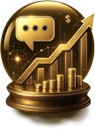
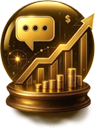
UX: navegação por URL, voltar-ao-topo, troféu centrado, confete no #1
- Routing por hash (URL = fonte de verdade): back/forward do browser navegam na app;
  links partilháveis e legíveis por SLUG do nome (#p/tiago-almeida, #duel/a~b);
  aceita ainda links antigos por id; #admin pelo mesmo parser.
- Faixa lateral esquerda (desktop) para voltar ao ranking; botão antigo só fora do
  desktop e encurtado para "← Ranking" em mobile/tablet.
- Botão "voltar ao topo" (desktop), ancorado junto da coluna de conteúdo (tabela), não
  no canto da janela; aparece com scroll.
- Troféu do 1º lugar centrado no topo do cartão (mock) + imagem cdi-trophy.png atualizada.
- Confete dourado no detalhe do #1 (Web Animations API), mais intenso quando o #1 é o
  próprio; mobile/tablet/desktop; respeita prefers-reduced-motion.

diff --git a/app/page.js b/app/page.js
@@ -1,6 +1,6 @@
 "use client";
 
-import { useState, useEffect, useMemo, useCallback, useId } from "react";
+import { useState, useEffect, useMemo, useCallback, useId, useRef } from "react";
 import { supabase } from "./supabase";
 import { fetchStockInfo, fetchStockPrices, fetchStockHistory, searchTickers } from "./lib/stocks";
 import { LineChart, Line, XAxis, YAxis, CartesianGrid, Tooltip, ReferenceLine, ResponsiveContainer } from "recharts";
@@ -249,6 +249,129 @@ function TiltCard({children,style}){
     </div>
   );
 }
+
+// Estado da faixa de voltar: ativa só em desktop (hover/ponteiro fino) e com margem
+// esquerda suficiente. Quando ativa, SUBSTITUI o botão "← Voltar ao ranking".
+function useBackRail(){
+  const [enabled,setEnabled]=useState(false);
+  const [gap,setGap]=useState(0);
+  useEffect(()=>{
+    let ok=false;
+    try{ ok=window.matchMedia("(hover:hover) and (pointer:fine)").matches; }catch{}
+    setEnabled(ok);
+    if(!ok) return;
+    const calc=()=>{ const w=window.innerWidth; setGap(w>1320?(w-1320)/2+20:20); };
+    calc();
+    window.addEventListener("resize",calc);
+    return ()=>window.removeEventListener("resize",calc);
+  },[]);
+  return {active:enabled&&gap>=64,gap};
+}
+
+// Faixa lateral esquerda (desktop): ao passar o cursor pela margem vazia à esquerda do
+// conteúdo, surge um glow + seta ← para voltar. Ocupa exatamente a margem (nunca sobrepõe
+// o cartão). Renderizada só quando useBackRail().active (aí o botão de topo desaparece).
+function LeftBackRail({gap,onBack,label="Voltar ao ranking"}){
+  const [hover,setHover]=useState(false);
+  return(
+    <div onClick={onBack} onMouseEnter={()=>setHover(true)} onMouseLeave={()=>setHover(false)}
+      role="button" aria-label={label} title={label}
+      style={{position:"fixed",left:0,top:0,bottom:0,width:gap,cursor:"pointer",zIndex:40,
+        display:"flex",alignItems:"center",justifyContent:"center",
+        background:hover?"linear-gradient(90deg, rgba(255,255,255,0.14) 0%, rgba(255,255,255,0.04) 50%, transparent 100%)":"transparent",
+        transition:"background .25s ease"}}>
+      <div style={{display:"flex",flexDirection:"column",alignItems:"center",gap:10,padding:8,
+        opacity:hover?1:0,transform:hover?"translateX(0)":"translateX(12px)",transition:"opacity .25s ease, transform .25s ease"}}>
+        <svg width="44" height="44" viewBox="0 0 24 24" fill="none" stroke="#e2e8f0" strokeWidth="2.2"
+          strokeLinecap="round" strokeLinejoin="round" style={{filter:"drop-shadow(0 0 10px rgba(255,255,255,0.55))"}}>
+          <path d="M15 6l-6 6 6 6"/>
+        </svg>
+        {gap>=150&&<span style={{fontSize:12,color:"#cbd5e1",fontWeight:600,whiteSpace:"nowrap",letterSpacing:"0.3px",filter:"drop-shadow(0 1px 4px rgba(0,0,0,0.5))"}}>{label}</span>}
+      </div>
+    </div>
+  );
+}
+
+// Botão flutuante "voltar ao topo" — só em desktop (hover/ponteiro fino); aparece com scroll.
+// Ancorado junto da coluna de conteúdo (maxWidth): fica ao lado da tabela, não no bordo da janela.
+function BackToTop({maxWidth}){
+  const [show,setShow]=useState(false);
+  const [enabled,setEnabled]=useState(false);
+  useEffect(()=>{
+    let ok=false; try{ ok=window.matchMedia("(hover:hover) and (pointer:fine)").matches; }catch{}
+    setEnabled(ok);
+    if(!ok) return;
+    const onScroll=()=>setShow(window.scrollY>600);
+    onScroll();
+    window.addEventListener("scroll",onScroll,{passive:true});
+    return()=>window.removeEventListener("scroll",onScroll);
+  },[]);
+  if(!enabled) return null;
+  const right=maxWidth?`max(16px, calc((100vw - ${maxWidth}px)/2 - 38px))`:"24px";
+  return(
+    <button onClick={()=>window.scrollTo({top:0,behavior:"smooth"})} aria-label="Voltar ao topo" title="Voltar ao topo"
+      style={{position:"fixed",right,bottom:24,zIndex:45,width:46,height:46,borderRadius:"50%",cursor:"pointer",
+        background:"rgba(255,255,255,0.08)",backdropFilter:"blur(12px)",WebkitBackdropFilter:"blur(12px)",
+        border:"1px solid rgba(255,255,255,0.18)",boxShadow:"0 8px 24px rgba(0,0,0,0.35)",color:"#e2e8f0",
+        display:"flex",alignItems:"center",justifyContent:"center",
+        opacity:show?1:0,transform:show?"translateY(0)":"translateY(12px)",pointerEvents:show?"auto":"none",
+        transition:"opacity .25s ease, transform .25s ease"}}>
+      <svg width="20" height="20" viewBox="0 0 24 24" fill="none" stroke="currentColor" strokeWidth="2.2" strokeLinecap="round" strokeLinejoin="round"><path d="M12 19V5M5 12l7-7 7 7"/></svg>
+    </button>
+  );
+}
+
+// Confete dourado (sem biblioteca) — celebração do 1º lugar. Dispara 1× ao abrir o detalhe
+// do campeão; mais intenso quando o #1 é o próprio. Mobile/tablet/desktop; respeita
+// prefers-reduced-motion (quem reduz movimento não vê animação). pointer-events:none.
+function Confetti({intense}){
+  const ref=useRef(null);
+  const [pieces,setPieces]=useState(null);
+  // 1) Gera as partículas (uma vez), respeitando prefers-reduced-motion.
+  useEffect(()=>{
+    let reduce=false;
+    try{ reduce=window.matchMedia("(prefers-reduced-motion: reduce)").matches; }catch{}
+    if(reduce) return;
+    const GOLD=["#facc15","#fcd34d","#f59e0b","#fde68a","#eab308","#fbbf24","#ca8a04"];
+    const n=intense?84:46;
+    setPieces(Array.from({length:n},(_,i)=>({
+      left:Math.random()*100,
+      dur:2000+Math.random()*1600,
+      delay:Math.random()*(intense?900:600),
+      drift:(Math.random()*2-1)*130,
+      rot:(Math.random()*2-1)*900,
+      size:6+Math.random()*7,
+      round:Math.random()<0.35,
+      color:GOLD[i%GOLD.length],
+    })));
+  },[intense]);
+  // 2) Anima cada partícula com a Web Animations API (não depende de keyframes CSS).
+  useEffect(()=>{
+    if(!pieces||!ref.current||typeof window==="undefined") return;
+    const H=window.innerHeight||800;
+    const anims=[];
+    [...ref.current.children].forEach((el,i)=>{
+      const p=pieces[i]; if(!p||!el.animate) return;
+      anims.push(el.animate([
+        {transform:`translate3d(0,${-0.15*H}px,0) rotate(0deg)`,opacity:0},
+        {opacity:1,offset:0.06},
+        {opacity:1,offset:0.88},
+        {transform:`translate3d(${p.drift}px,${1.16*H}px,0) rotate(${p.rot}deg)`,opacity:0},
+      ],{duration:p.dur,delay:p.delay,easing:"cubic-bezier(.2,.6,.5,1)",fill:"forwards"}));
+    });
+    const maxEnd=pieces.reduce((m,p)=>Math.max(m,p.dur+p.delay),0);
+    const t=setTimeout(()=>setPieces(null),maxEnd+150);
+    return()=>{ clearTimeout(t); anims.forEach(a=>{ try{a.cancel();}catch{} }); };
+  },[pieces]);
+  if(!pieces) return null;
+  return(
+    <div ref={ref} aria-hidden="true" style={{position:"fixed",inset:0,zIndex:60,pointerEvents:"none",overflow:"hidden"}}>
+      {pieces.map((p,i)=><span key={i} style={{position:"absolute",top:0,left:`${p.left}%`,
+        width:p.round?p.size*0.85:p.size,height:p.round?p.size*0.85:p.size*1.6,background:p.color,
+        borderRadius:p.round?"50%":"1px",boxShadow:"0 0 4px rgba(245,158,11,0.45)",opacity:0}}/>)}
+    </div>
+  );
+}
 // Só marca as posições SHORT — long é o normal, não precisa de badge.
 // Círculo com seta diagonal para baixo (aposta na queda), junto ao ticker.
 function SideBadge({side}){
@@ -355,6 +478,34 @@ const K={MYNAME:"ci_myname",MYPIN:"ci_mypin"};
 /* ============================================================================
    ROOT
    ============================================================================ */
+/* ---- Routing por hash: URL = fonte de verdade (back/forward + links partilháveis) ----
+   Os links usam o SLUG do nome (ex.: #p/tiago-almeida), resolvido AO VIVO a partir da lista
+   de membros — vale para os atuais e os futuros. Aceita ainda links antigos por id (UUID).
+   O duelo separa os dois slugs por "~". */
+const keyToId=(k)=>k?String(k).replace(/^pf_/,""):"";
+const slugify=(s)=>norm(s).replace(/[^a-z0-9]+/g,"-").replace(/^-+|-+$/g,"");
+function findBySlug(list,slug){ return slug?(list||[]).find(p=>slugify(p.name)===slug||keyToId(p.key)===slug)||null:null; }
+function routeToHash(r){
+  if(r.page==="detail"&&r.detailSlug) return `#p/${r.detailSlug}`;
+  if(r.page==="duel"&&r.duelSlugs?.[0]&&r.duelSlugs?.[1]) return `#duel/${r.duelSlugs[0]}~${r.duelSlugs[1]}`;
+  if(r.page==="ranking") return "#ranking";
+  if(r.page==="create")  return "#criar";
+  if(r.page==="confirm") return "#confirmar";
+  if(r.page==="admin")   return "#admin";
+  return "#"; // home
+}
+function parseHash(){
+  const h=(typeof window!=="undefined"?window.location.hash:"").replace(/^#/,"");
+  if(!h) return {page:"home"};
+  if(h==="ranking")  return {page:"ranking"};
+  if(h==="criar")    return {page:"create"};
+  if(h==="confirmar")return {page:"confirm"};
+  if(h==="admin")    return {page:"admin"};
+  const mp=h.match(/^p\/(.+)$/);          if(mp) return {page:"detail",detailSlug:decodeURIComponent(mp[1])};
+  const md=h.match(/^duel\/(.+)~(.+)$/);  if(md) return {page:"duel",duelSlugs:[decodeURIComponent(md[1]),decodeURIComponent(md[2])]};
+  return {page:"home"};
+}
+
 export default function App(){
   const [page,setPage]=useState("home"); // home|create|confirm|ranking|detail|admin
   const [loading,setLoading]=useState(true);
@@ -366,11 +517,31 @@ export default function App(){
   const [livePrices,setLivePrices]=useState({});
   const [dayChange,setDayChange]=useState({}); // variação do dia por ticker
   const [pricesLoading,setPricesLoading]=useState(false);
-  const [detailKey,setDetailKey]=useState(null);
-  const [duelKeys,setDuelKeys]=useState(null); // [keyA, keyB] para o duelo 1v1
+  const [detailSlug,setDetailSlug]=useState(null);
+  const [duelSlugs,setDuelSlugs]=useState(null); // [slugA, slugB] para o duelo 1v1
   const [toast,setToast]=useState(null);
 
   const showToast=useCallback((msg,kind="ok")=>{ setToast({msg,kind}); setTimeout(()=>setToast(null),3500); },[]);
+
+  // Routing: aplica o hash ao estado; navegar empurra o hash (back/forward funciona).
+  const applyRoute=useCallback(()=>{
+    const r=parseHash();
+    setPage(r.page);
+    setDetailSlug(r.detailSlug??null);
+    setDuelSlugs(r.duelSlugs??null);
+  },[]);
+  const goRoute=useCallback((r)=>{
+    if(typeof window!=="undefined"){
+      const hash=routeToHash(r);
+      const url=(hash&&hash!=="#")?hash:(window.location.pathname+window.location.search);
+      window.history.pushState(null,"",url);
+    }
+    applyRoute();
+  },[applyRoute]);
+  const slugForKey=useCallback((key)=>{ const pf=portfolios.find(p=>p.key===key); return pf?(slugify(pf.name)||keyToId(key)):keyToId(key); },[portfolios]);
+  const nav=useCallback((p)=>goRoute({page:p}),[goRoute]);
+  const openDetail=useCallback((k)=>goRoute({page:"detail",detailSlug:slugForKey(k)}),[goRoute,slugForKey]);
+  const openDuel=useCallback((a,b)=>goRoute({page:"duel",duelSlugs:[slugForKey(a),slugForKey(b)]}),[goRoute,slugForKey]);
 
   const refreshLivePrices=useCallback(async(pfs)=>{
     // Inclui "SPY" para o benchmark (preço ao vivo do S&P 500 agora).
@@ -469,22 +640,23 @@ export default function App(){
 
   useEffect(()=>{ load(); },[load]);
   // Ao mudar de ecrã (ou de portefólio aberto), começa no topo do scroll.
-  useEffect(()=>{ if(typeof window!=="undefined") window.scrollTo(0,0); },[page,detailKey,duelKeys]);
+  useEffect(()=>{ if(typeof window!=="undefined") window.scrollTo(0,0); },[page,detailSlug,duelSlugs]);
 
-  // Entrada discreta para a área de admin: abrir a app com #admin no URL
-  // (ex.: localhost:3000/#admin). Continua protegida pela palavra-passe.
+  // Routing por hash: aplica a rota no arranque e em back/forward (e edição manual do hash).
+  // Inclui a entrada de admin (#admin) e os links partilháveis (#p/<id>, #duel/<a>~<b>).
   useEffect(()=>{
-    const applyHash=()=>{ if(window.location.hash==="#admin") setPage("admin"); };
-    applyHash();
-    window.addEventListener("hashchange",applyHash);
-    return()=>window.removeEventListener("hashchange",applyHash);
-  },[]);
+    applyRoute();
+    window.addEventListener("popstate",applyRoute);
+    window.addEventListener("hashchange",applyRoute);
+    return()=>{ window.removeEventListener("popstate",applyRoute); window.removeEventListener("hashchange",applyRoute); };
+  },[applyRoute]);
 
   const myPf=useMemo(()=>{
     if(!myName) return null;
     const n=norm(myName);
     return portfolios.find(p=>p.normName===n)||null;
   },[myName,portfolios]);
+  const openMyPortfolio=useCallback(()=>{ if(myPf?.key) openDetail(myPf.key); else nav("detail"); },[myPf,openDetail,nav]);
 
   const submitted=hasSubmitted;
 
@@ -542,7 +714,7 @@ export default function App(){
     setMyName(trimmedName);
     await load();
     setHasSubmitted(true);
-    setPage("ranking");
+    nav("ranking");
     return{ok:true};
   }
 
@@ -566,11 +738,9 @@ export default function App(){
     setMyName(data.name||name);
     await load(); // recarrega já com o código guardado → junta as tuas ações (sem 2º pedido)
     setHasSubmitted(true);
-    setPage("ranking");
+    nav("ranking");
     return{ok:true};
   }
-
-  const nav=(p)=>setPage(p);
 
   if(loading) return(
     <div style={{minHeight:"100vh",
@@ -585,7 +755,7 @@ export default function App(){
 
   // Lugar (rank) do portefólio em detalhe — ao vivo, dentro do grupo (demo/oficial).
   // 0 = sem classificação ("em espera"). Usado para o tema da página e pelo <Detail>.
-  const detailPf=portfolios.find(p=>p.key===detailKey)||myPf;
+  const detailPf=findBySlug(portfolios,detailSlug)||myPf;
   const detailRank=(()=>{
     if(!detailPf) return 0;
     if(detailPf.official&&isPreLaunch(settings)) return 0;
@@ -596,14 +766,14 @@ export default function App(){
   const detailIsOwn=detailPf?detailPf.normName===norm(myName):false;
 
   const sh=(children)=><Shell page={page} detailRank={detailRank} detailIsOwn={detailIsOwn} nav={nav} submitted={submitted} toast={toast}
-    onMyPortfolio={()=>{ setDetailKey(myPf?.key||null); nav("detail"); }}
-    myPortfolioActive={page==="detail" && (!detailKey || detailKey===myPf?.key)}>{children}</Shell>;
+    onMyPortfolio={openMyPortfolio}
+    myPortfolioActive={page==="detail" && !!detailPf && !!myPf && detailPf.key===myPf.key}>{children}</Shell>;
 
-  if(page==="home")   return sh(<Home nav={nav} submitted={submitted} count={portfolios.length} settings={settings} ranking={ranking} livePrices={livePrices} onMyPortfolio={()=>{ setDetailKey(myPf?.key||null); nav("detail"); }}/>);
+  if(page==="home")   return sh(<Home nav={nav} submitted={submitted} count={portfolios.length} settings={settings} ranking={ranking} livePrices={livePrices} onMyPortfolio={openMyPortfolio}/>);
   if(page==="create") return sh(submitted?<AlreadySubmitted nav={nav} name={myName}/>:<Create settings={settings} doSubmit={doSubmit} onDone={()=>nav("ranking")} showToast={showToast}/>);
   if(page==="confirm")return sh(<Confirm nav={nav} name={myName}/>);
-  if(page==="ranking")return sh(submitted?<Ranking ranking={ranking} myNorm={norm(myName)} pricesLoading={pricesLoading} spy={spy} preLaunch={isPreLaunch(settings)} settings={settings} onSelect={(k)=>{setDetailKey(k);nav("detail");}} onCompare={(a,b)=>{setDuelKeys([a,b]);nav("duel");}}/>:<LockedGate nav={nav} recoverByName={recoverByName} showToast={showToast}/>);
-  if(page==="duel")   return sh(submitted?<Duel a={ranking.find(p=>p.key===duelKeys?.[0])} b={ranking.find(p=>p.key===duelKeys?.[1])} livePrices={livePrices} spy={spy} nav={nav}/>:<LockedGate nav={nav} recoverByName={recoverByName} showToast={showToast}/>);
+  if(page==="ranking")return sh(submitted?<Ranking ranking={ranking} myNorm={norm(myName)} pricesLoading={pricesLoading} spy={spy} preLaunch={isPreLaunch(settings)} settings={settings} onSelect={openDetail} onCompare={openDuel}/>:<LockedGate nav={nav} recoverByName={recoverByName} showToast={showToast}/>);
+  if(page==="duel")   return sh(submitted?<Duel a={findBySlug(ranking,duelSlugs?.[0])} b={findBySlug(ranking,duelSlugs?.[1])} livePrices={livePrices} spy={spy} nav={nav}/>:<LockedGate nav={nav} recoverByName={recoverByName} showToast={showToast}/>);
   if(page==="detail") return sh(submitted?<Detail pf={detailPf} rank={detailRank} livePrices={livePrices} dayChange={dayChange} spy={spy} nav={nav} myNorm={norm(myName)} preLaunch={isPreLaunch(settings)} competitionStarted={settings?.competitionStarted===true} gameStartDate={settings?.gameStartDate||""} reload={load} showToast={showToast}/>:<LockedGate nav={nav} recoverByName={recoverByName} showToast={showToast}/>);
   if(page==="admin")  return sh(<Admin settings={settings} setSettings={setSettings} portfolios={portfolios} ranking={ranking} livePrices={livePrices} reload={load} showToast={showToast}/>);
   return null;
@@ -637,6 +807,7 @@ function Shell({children,page,detailRank,detailIsOwn,nav,submitted,toast,onMyPor
         <div style={{position:"absolute",top:12,right:14}}><MarketStatus/></div>
       </header>
       <main>{children}</main>
+      <BackToTop maxWidth={page==="ranking"?900:page==="detail"?1320:null}/>
       {toast&&(
         <div style={{position:"fixed",bottom:24,left:"50%",transform:"translateX(-50%)",zIndex:9999,
           width:"max-content",maxWidth:"min(92vw,440px)",
@@ -1999,6 +2170,7 @@ function OwnLockedGate({pf,nav,reload,showToast}){
 function Detail({pf,rank,livePrices,dayChange,spy,nav,myNorm,preLaunch,competitionStarted,gameStartDate,reload,showToast}){
   // Coluna de rentabilidade da lista: "total" (desde a compra) ↔ "day" (diário).
   const [retMode,setRetMode]=useState("total");
+  const rail=useBackRail();
   if(!pf) return(
     <div style={{textAlign:"center",padding:80,color:"#4b5563"}}>
       Portefólio não encontrado. <button onClick={()=>nav("ranking")} style={{color:"#22c55e",background:"none",border:"none",cursor:"pointer"}}>Voltar</button>
@@ -2039,20 +2211,24 @@ function Detail({pf,rank,livePrices,dayChange,spy,nav,myNorm,preLaunch,competiti
   const GLASS={background:"rgba(255,255,255,0.05)",backdropFilter:"blur(16px) saturate(160%)",WebkitBackdropFilter:"blur(16px) saturate(160%)",border:"1px solid rgba(255,255,255,0.10)",boxShadow:"0 8px 30px rgba(0,0,0,0.28), inset 0 1px 0 rgba(255,255,255,0.10)"};
   return(
     <div style={{maxWidth:1320,margin:"0 auto",padding:"40px 20px 80px"}}>
+      {rail.active&&<LeftBackRail gap={rail.gap} onBack={()=>nav("ranking")}/>}
+      {rank===1&&<Confetti key={pf.key} intense={!!myNorm && pf.normName===myNorm}/>}
       <style>{`.cdiDetail{display:grid;gap:16px;grid-template-columns:1fr}@media(min-width:1000px){.cdiDetail{grid-template-columns:minmax(0,1fr) minmax(0,1.12fr);align-items:start}}`}</style>
+      {!rail.active&&(
       <button onClick={()=>nav("ranking")} className="backLink"
         style={{background:"none",border:"none",cursor:"pointer",color:"#6b7280",fontSize:14,marginBottom:24,
           display:"flex",alignItems:"center",gap:6,padding:0}}>
-        <span className="backArrow">←</span> Voltar ao ranking
+        <span className="backArrow">←</span> Ranking
       </button>
+      )}
 
       <div className="cdiDetail">
       <div>{/* coluna esquerda: portefólio */}
       <div style={{position:"relative",marginBottom:16}}>
         {rank===1&&(
           <img src="/cdi-trophy.png" alt="Troféu de 1º lugar"
-            style={{position:"absolute",top:"clamp(-118px,-15vw,-80px)",right:"clamp(10px,4vw,32px)",
-              width:"clamp(72px,14vw,104px)",height:"auto",zIndex:5,pointerEvents:"none",
+            style={{position:"absolute",top:"clamp(-66px,-7vw,-54px)",left:"50%",transform:"translateX(-50%)",
+              width:"clamp(60px,7vw,72px)",height:"auto",zIndex:5,pointerEvents:"none",
               filter:"drop-shadow(0 12px 22px rgba(0,0,0,0.5)) drop-shadow(0 0 20px rgba(245,158,11,0.4))"}}/>
         )}
       <TiltCard style={{background:"rgba(255,255,255,0.05)",backdropFilter:"blur(16px) saturate(160%)",WebkitBackdropFilter:"blur(16px) saturate(160%)",border:acc?acc.border:"1px solid rgba(255,255,255,0.10)",boxShadow:acc?`${acc.glow}, 0 8px 30px rgba(0,0,0,0.28), inset 0 1px 0 rgba(255,255,255,0.16)`:"0 8px 30px rgba(0,0,0,0.28), inset 0 1px 0 rgba(255,255,255,0.10)",borderRadius:16,padding:28}}>